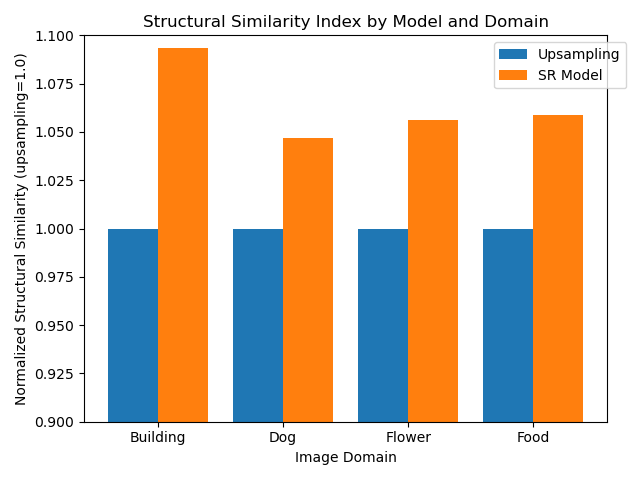
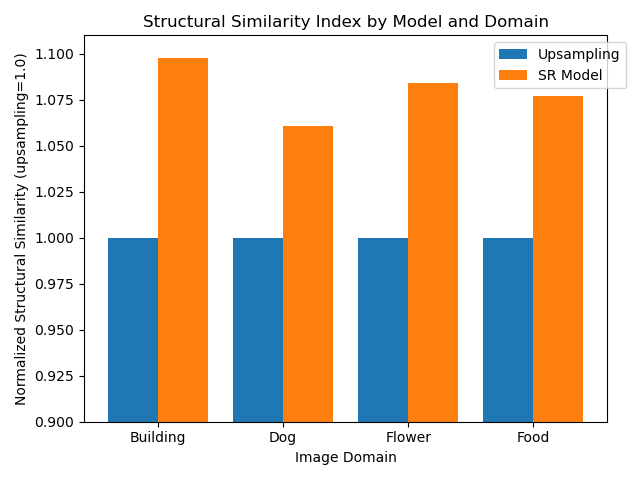
Updated chart images with latest models.

diff --git a/code/Analyze.py b/code/Analyze.py
@@ -78,7 +78,7 @@ def chart_mean(model_names, domain_names, means, legend_names):
     ax.set_xticks([0, 1, 2, 3])
     ax.set_xticklabels(domain_names)
     ax.set_title("Structural Similarity Index by Model and Domain")
-    ax.set_ylim([0.9, 1.10])
+    ax.set_ylim([0.9, 1.11])
     plt.tight_layout()
     plt.show()
 
@@ -104,14 +104,14 @@ def main():
     data = read_data()
 
     #model_names = list(data.keys())
-    #model_names = ["upsampling", "Food_200", "Food_239", "Food_334", "Food_386", "Food_596", "Food_726", "Food_983"]
-    #model_names = ["upsampling", "Flower_140", "Flower_165", "Flower_253", "Flower_308", "Flower_416"]
-    #model_names = ["upsampling", "Dog_140", "Dog_162", "Dog_248", "Dog_302", "Dog_409"]
-    #model_names = ["upsampling", "Building_200", "Building_317", "Building_380", "Building_631", "Building_787", "Building_1094"]
-    #model_names = ["upsampling", "Building_24k_92", "Building_24k_205", "Building_24k_274", "Building_24k_411"]
-    #model_names = ["upsampling", "Building_1094", "Dog_248", "Flower_416", "Food_726", "Building_24k_274"]
+    #model_names = ["upsampling", "Food_200", "Food_239", "Food_334", "Food_386", "Food_596", "Food_726", "Food_983", "Food_1072"]
+    #model_names = ["upsampling", "Flower_140", "Flower_165", "Flower_253", "Flower_308", "Flower_416", "Flower_635"]
+    #model_names = ["upsampling", "Dog_140", "Dog_162", "Dog_248", "Dog_302", "Dog_409", "Dog_625"]
+    #model_names = ["upsampling", "Building_200", "Building_317", "Building_380", "Building_631", "Building_787", "Building_1094", "Building_1499"]
+    #model_names = ["upsampling", "Building_24k_92", "Building_24k_205", "Building_24k_274", "Building_24k_411", "Building_24k_458"]
+    #model_names = ["upsampling", "Building_1094", "Dog_248", "Flower_416", "Food_726", "Building_24k_458", "sr_all_72"]
     #model_names = ["upsampling", "Building_1094", "Dog_248", "Flower_416", "Food_726"]
-    model_names = ["upsampling", "Building_24k_274"]
+    model_names = ["upsampling", "sr_all_72"]
     legend_names = ["Upsampling", "SR Model"]
     num_models = len(model_names)
     domain_names = ["Building", "Dog", "Flower", "Food"]

diff --git a/code/SubjectiveAnalyze.py b/code/SubjectiveAnalyze.py
@@ -14,7 +14,7 @@ from skimage import data
 # original files are in ../testdata/resized/[domain]/512"
 g_origLocation = "../testdata/resized/"
 g_upscaleLocation = "../testdata/upsampled/"
-g_srLocation = "../testdata/sr/Building_1094"
+g_srLocation = "../testdata/sr/sr_all_72"
 
 g_images = [
     ( "Building", "000d6781b9abfae8.jpg" ),
